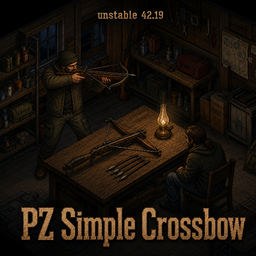
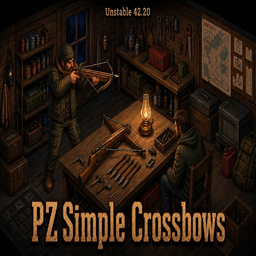
Update mod version to 1.0.4 and adjust README for Project Zomboid Build 42.20 compatibility

diff --git a/README.md b/README.md
@@ -4,10 +4,10 @@
 
 # PZ Simple Crossbows
 
-PZ Simple Crossbows is a standalone, lore-friendly crossbow pack for **Project Zomboid Build 42.19**. It adds practical craftable ranged weapons, handmade ammunition, custom models, icons, sounds, recipes, loot distribution, sandbox tuning, and English/Ukrainian localization.
+PZ Simple Crossbows is a standalone, lore-friendly crossbow pack for **Project Zomboid Build 42.20**. It adds practical craftable ranged weapons, handmade ammunition, custom models, icons, sounds, recipes, loot distribution, sandbox tuning, and English/Ukrainian localization.
 
 [![Steam Workshop](https://img.shields.io/badge/Steam-Workshop-1b2838?logo=steam&logoColor=white)](https://steamcommunity.com/sharedfiles/filedetails/?id=3758880254)
-![Project Zomboid](https://img.shields.io/badge/Project%20Zomboid-Build%2042.19-b08b57)
+![Project Zomboid](https://img.shields.io/badge/Project%20Zomboid-Build%2042.20-b08b57)
 ![Multiplayer](https://img.shields.io/badge/Multiplayer-Supported-4c8c4a)
 ![Mod ID](https://img.shields.io/badge/Mod%20ID-PZCrossbows-d6a65a)
 
@@ -157,12 +157,12 @@ PZCrossbows/
 
 ## Compatibility
 
-- Project Zomboid **Build 42.19**
+- Project Zomboid **Build 42.20**
 - Singleplayer
 - Multiplayer and co-op hosting
 - Mod ID: `PZCrossbows`
 - Workshop ID: `3758880254`
-- Mod version: `1.0.3`
+- Mod version: `1.0.4`
 
 ## Author
 
